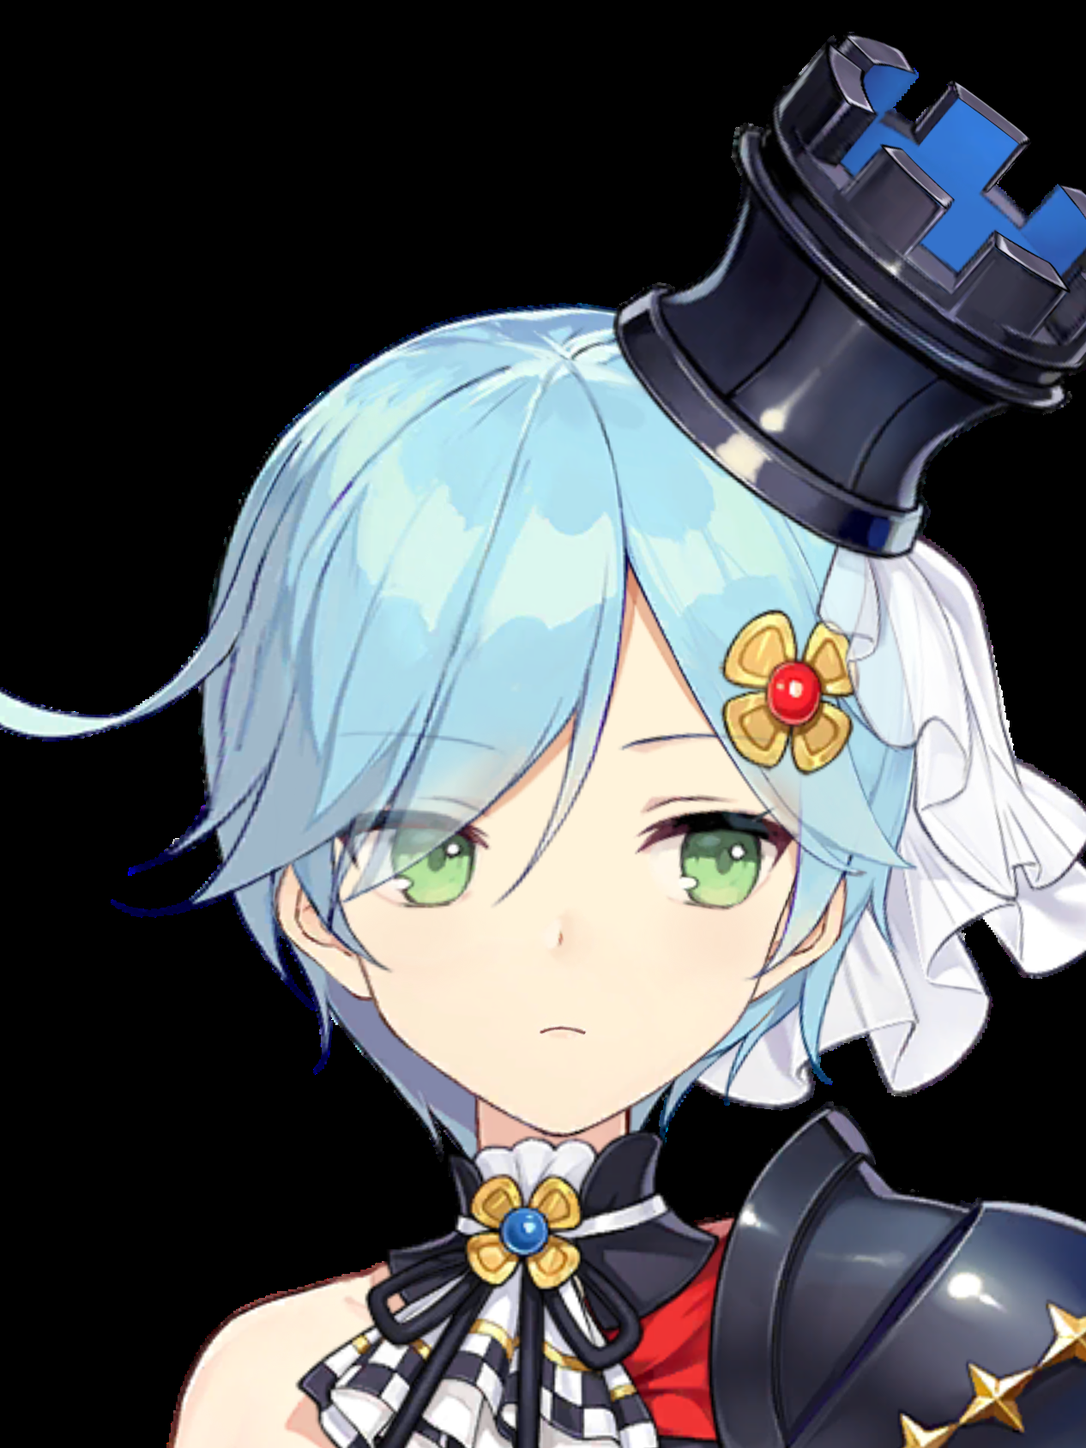
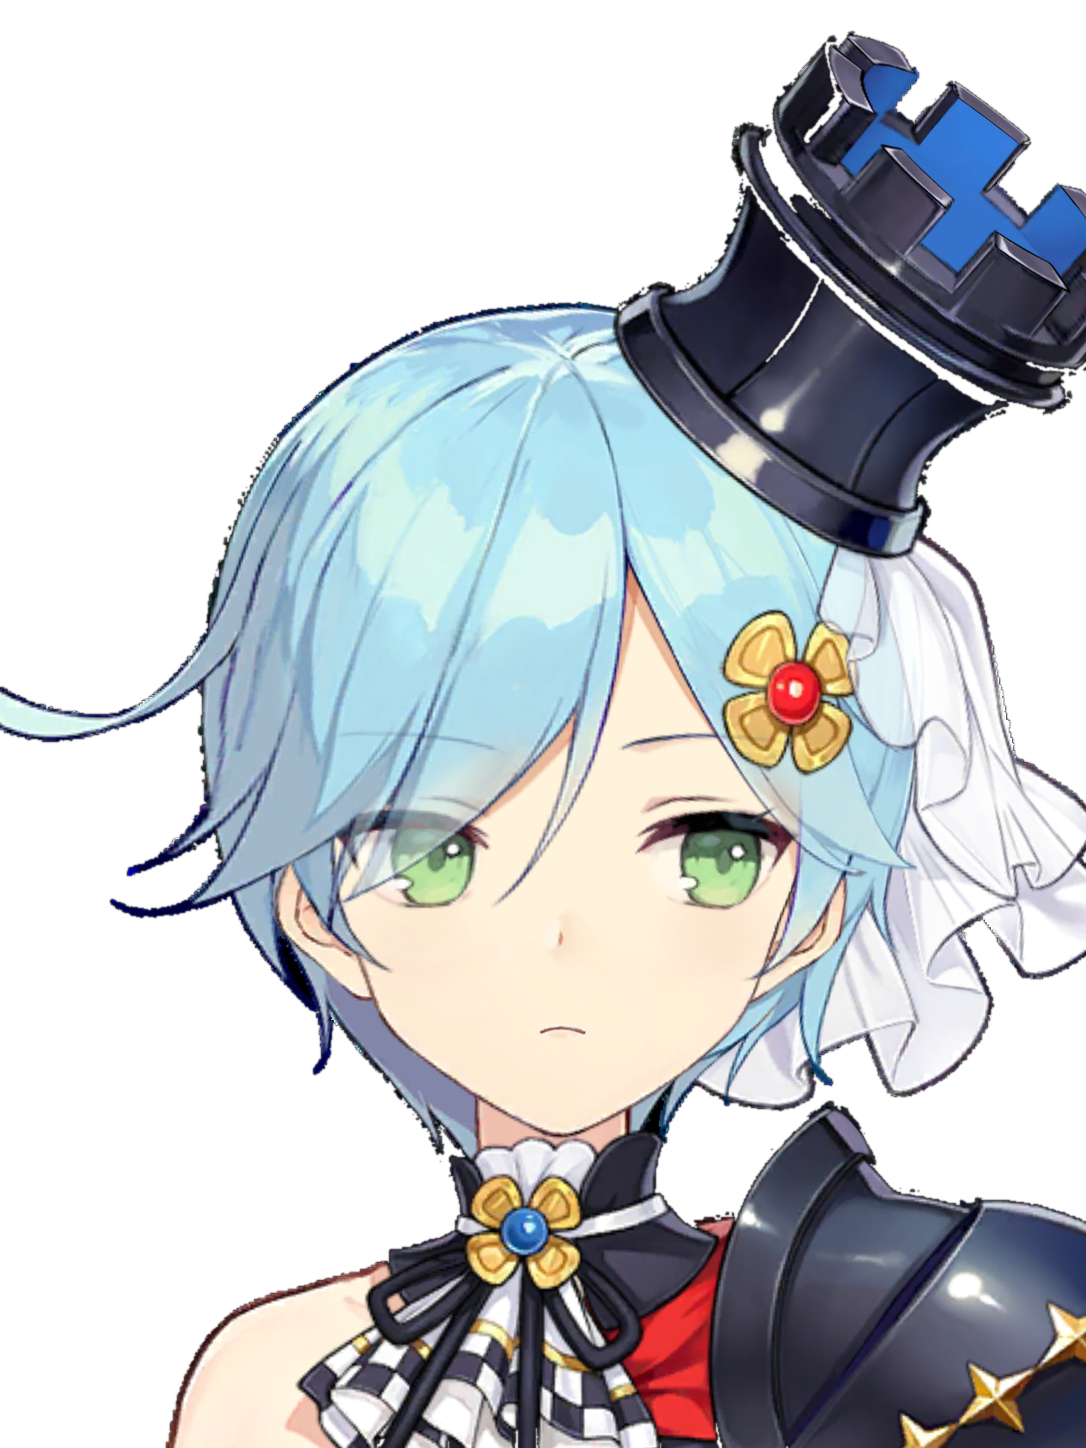
补回 f_bust/f_eye/f_reach 的 alpha：黑底键除 + 画板自检
- 三张画板原为 RGB（不透明黑底），进片出现黑方块；用边缘泛洪键掉纯黑背景，0.8px 羽化
- 反推源图裁切窗口的两种量法（FFT 全尺度匹配、绿瞳标尺）均不可靠，放弃并记录
- 新增 tools/plate_alpha_key.py（就地补 alpha）、tools/plate_check.py（npm run check:plates）
- 踩坑与经验.md 增 3.12

diff --git a/tools/plate_alpha_key.py b/tools/plate_alpha_key.py
@@ -1,0 +1,63 @@
+"""给压了黑底的画板补回 alpha。
+
+背景是纯黑（0,0,0），从四条边向内做泛洪，只吃与画面边缘连通的近黑像素，
+人物自身的黑色区块（不连边）不动。边缘再做 0.8px 高斯羽化，避免一刀切的锯齿。
+
+用法：python tools/plate_alpha_key.py f_bust f_eye f_reach [--tol 18]
+"""
+import sys
+import numpy as np
+from PIL import Image, ImageFilter
+from collections import deque
+
+
+def key_alpha(im, tol=18):
+    a = np.asarray(im.convert("RGB")).astype(np.int16)
+    dark = a.max(2) <= tol
+    h, w = dark.shape
+    seen = np.zeros((h, w), bool)
+    dq = deque()
+    for x in range(w):
+        for y in (0, h - 1):
+            if dark[y, x] and not seen[y, x]:
+                seen[y, x] = True
+                dq.append((y, x))
+    for y in range(h):
+        for x in (0, w - 1):
+            if dark[y, x] and not seen[y, x]:
+                seen[y, x] = True
+                dq.append((y, x))
+    while dq:
+        y, x = dq.popleft()
+        for ny, nx in ((y - 1, x), (y + 1, x), (y, x - 1), (y, x + 1)):
+            if 0 <= ny < h and 0 <= nx < w and dark[ny, nx] and not seen[ny, nx]:
+                seen[ny, nx] = True
+                dq.append((ny, nx))
+    alpha = np.where(seen, 0, 255).astype(np.uint8)
+    am = Image.fromarray(alpha, "L").filter(ImageFilter.GaussianBlur(0.8))
+    rgba = im.convert("RGBA")
+    rgba.putalpha(am)
+    return rgba, seen
+
+
+def main():
+    names = [a for a in sys.argv[1:] if not a.startswith("-")]
+    tol = 18
+    if "--tol" in sys.argv:
+        tol = int(sys.argv[sys.argv.index("--tol") + 1])
+    for n in names:
+        p = f"assets/character/{n}.png"
+        im = Image.open(p)
+        if im.mode == "RGBA":
+            a = np.asarray(im)[:, :, 3]
+            if int(a.min()) == 0:
+                print(f"{n}: 已有 alpha，跳过")
+                continue
+        rgba, seen = key_alpha(im, tol)
+        rgba.save(p)
+        frac = seen.mean() * 100
+        print(f"{n}: 键掉黑底 {frac:.1f}%，写出 RGBA {rgba.size}")
+
+
+if __name__ == "__main__":
+    main()

diff --git a/tools/plate_check.py b/tools/plate_check.py
@@ -1,0 +1,48 @@
+"""画板自检：raw.json 里列出的每张画板必须是带 alpha 的 PNG，且确有透明像素。
+
+黑底画板（RGB 且 alpha 全 255）进片就是一个黑方块，这类错误在联络表里最容易被漏掉，
+所以做成命令行检查，出片前跑一次。
+
+用法：python tools/plate_check.py
+"""
+import json
+import os
+import sys
+from PIL import Image
+
+ART_DIR = "assets/character"
+
+
+def main():
+    with open(os.path.join(ART_DIR, "raw.json"), encoding="utf-8") as f:
+        names = json.load(f)
+    bad = []
+    print(f"{'画板':<14}{'模式':<6}{'尺寸':<14}{'透明占比':>10}")
+    for n in names:
+        p = os.path.join(ART_DIR, f"{n}.png")
+        if not os.path.exists(p):
+            print(f"{n:<14}缺文件")
+            bad.append(n)
+            continue
+        im = Image.open(p)
+        a = im.convert("RGBA").split()[3]
+        hist = a.histogram()
+        frac = hist[0] / (im.width * im.height)
+        flag = ""
+        if im.mode not in ("RGBA", "LA"):
+            flag = "  ← 无 alpha 通道（会是黑方块）"
+            bad.append(n)
+        elif frac <= 0.001:
+            flag = "  ← 几乎全不透明（检查是否压了黑底）"
+            bad.append(n)
+        print(f"{n:<14}{im.mode:<6}{str(im.size):<14}{frac*100:>9.0f}%{flag}")
+    if bad:
+        print(f"\n不合格：{', '.join(bad)}")
+        print("修法：python tools/plate_alpha_key.py <画板名…>")
+        return 1
+    print("\n全部合格")
+    return 0
+
+
+if __name__ == "__main__":
+    sys.exit(main())

diff --git a/二次创作/说明/踩坑与经验.md b/二次创作/说明/踩坑与经验.md
@@ -407,3 +407,42 @@ if (!Array.isArray(art.raw)) art.raw = {};      // ← 病根
 修法：两处兜底都改成 `[]`（空数组 = 没有任何 key 走原生位图，全部按剪影画）。
 落点 `src/engine/art.js`。教训：这类"默认值换类型"的坑不会报在改动的那一行，
 只在下一个跑到它的人身上炸；**改完装载器必须抽一帧看剪影还在不在**，不能只看退出码。
+
+### 3.12 三张画板丢了 alpha，进片是黑方块（2026-11-18，已修）
+
+`f_bust` / `f_eye` / `f_reach` 这三张当初是走另一条路径落盘的，**存成了 RGB**：
+文件里没有 alpha 通道，浏览器读到就是"不透明 + 黑底"。于是凡是用到它们的镜头，
+人物周围多出一个方方正正的黑矩形，最明显的是 `EXISTENCE` 那帧（她头顶的黑块）；
+`f_eye` / `f_reach` 因为构图本身就顶满画幅，只在内侧角落露黑，反而不容易被看出来。
+另外五张（`f_profile` / `boy_bust` / `man_bust` / `cat_bust` / `cat_paws`）是 RGBA 正常。
+
+查法（一眼看出病）：
+
+```powershell
+python -c "from PIL import Image; import glob; [print(p, Image.open(p).mode) for p in sorted(glob.glob('assets/character/*.png'))]"
+```
+
+`RGB` 就是坏的；`RGBA` 且透明占比 0% 也是坏的。
+
+**试过但不可靠的路**：想从源图（`out/_lib/p_face.png`、`hnl_bust.png`，4096 带 alpha）反推
+这三张当时的裁切窗口，再用源图重出一份带 alpha 的。两种量法都失败了——
+FFT 全尺度 SSD 匹配的最优倍率一律卡在搜索下界 `s=1.0`，MSE 10000 上下；
+改用绿瞳当标尺（源图里双眼可测，画板里双眼按色相也能测）算尺度，
+`f_bust` 得到 MSE 4681、`f_reach` 连左右眼都并成一个团（两块同 x）。
+结论：**这三张的出处不是这两张源图**（或至少中间还有别的缩放/裁切），反推不成立，放弃。
+
+**真正用的修法**：黑底是**纯黑**（四角 `(0,0,0)`，纯黑占比 42.6% / 40.6% / 16.5%，
+非黑像素最暗值 ≥ 7），所以直接从四条边做泛洪，吃掉与画幅边缘连通的近黑像素即可，
+人物自身的黑色区块（不与边缘连通）不动；掩膜再做 0.8px 高斯羽化，边缘不平切。
+
+```powershell
+python tools/plate_alpha_key.py f_bust f_eye f_reach     # 就地补 alpha，已是 RGBA 的会跳过
+```
+
+`--tol` 默认 18，用意是连压黑时被压暗的那圈边（值 7～16）一起吃掉，否则会留一道黑描边。
+复核方式：把画板压在**蓝**和**红**两种底色上各拼一格（`out/_lib/alpha_key_check.png`），
+再看实际出帧——`EXISTENCE`、`OBJECT CREATION`、`f_reach` 那几帧的黑矩形已消失。
+
+**防复发**：新增 `tools/plate_check.py`（`npm run check:plates`），按 `raw.json` 逐张检查
+"是不是 RGBA + 透明占比是否 > 0.1%"，不合格列出名字并给出修法。出片前跑一次。
+教训：画板这类"少一条通道"的错，**退出码永远是 0**，只能靠自检和肉眼压底复核。
